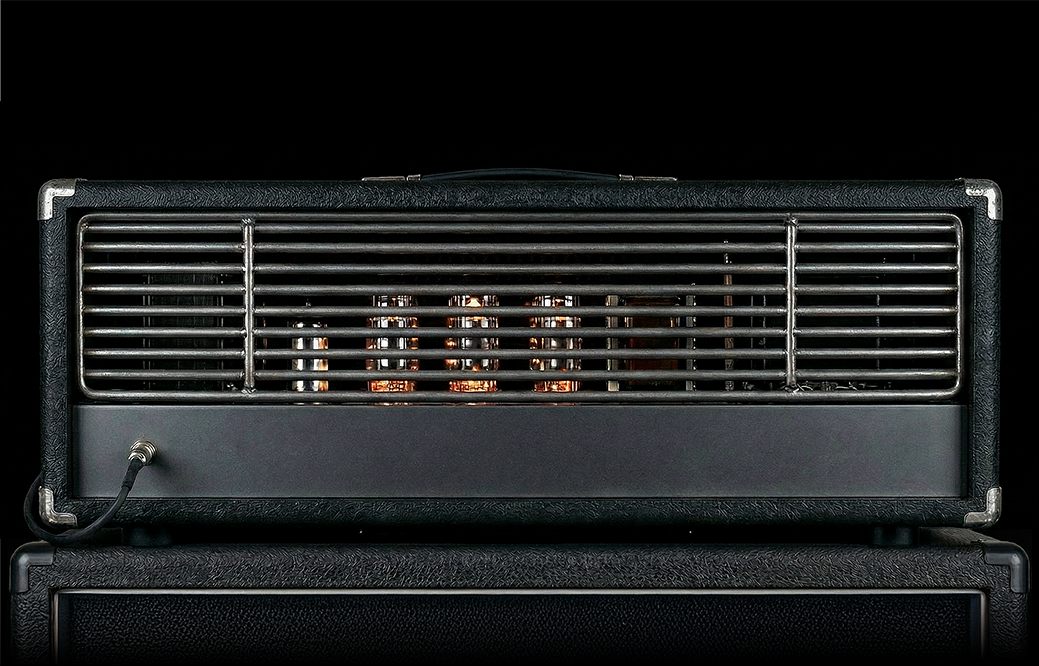
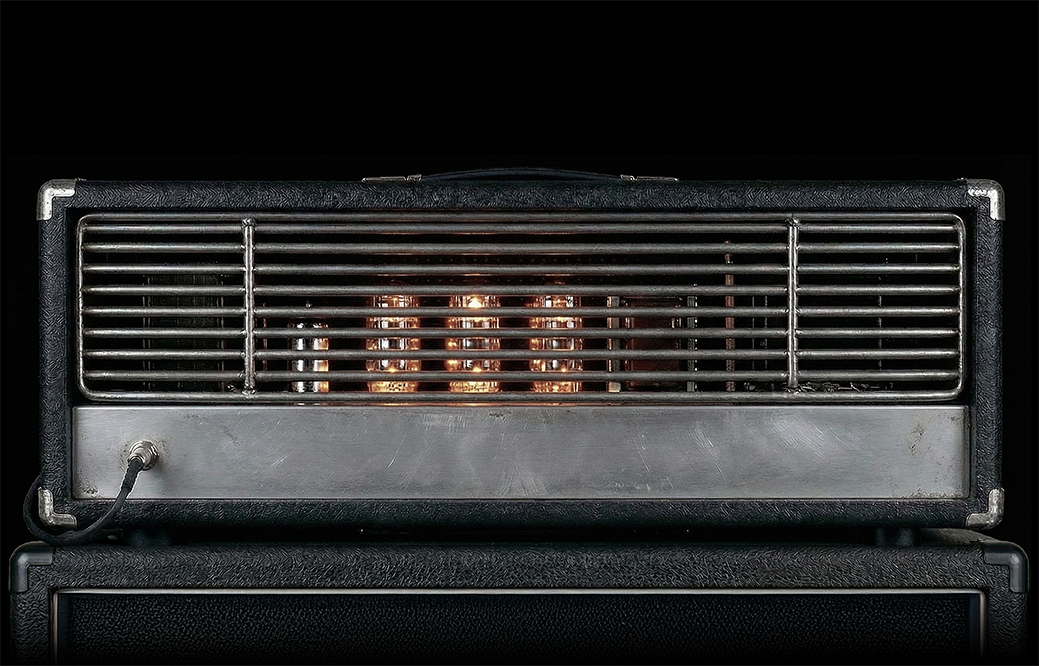
feat(ui): refine amp-face layout and artwork

Changed region(s): [[0.0, 0.2402, 0.9856, 0.961]]

diff --git a/NeuralAmpModeler/NeuralAmpModeler.cpp b/NeuralAmpModeler/NeuralAmpModeler.cpp
@@ -79,6 +79,46 @@ constexpr std::array<const char*, 1> kReleaseStompAssetTokens = {"Boost1"};
 constexpr std::array<const char*, 1> kReleaseStompAssetFileNames = {"Boost1.nam"};
 constexpr std::array<const char*, 1> kReleaseIRAssetTokens = {"Cab1"};
 constexpr std::array<const char*, 1> kReleaseIRAssetFileNames = {"Cab1.wav"};
+constexpr float kAmpFaceKnobAreaWidth = 80.0f;
+constexpr float kAmpFaceSwitchScale = 0.20f;
+
+struct AmpFaceLayout
+{
+  float knobTopOffset;
+  float knobCenterOffsetX;
+  float knobSpacing;
+  float knobScale;
+  float labelYOffset;
+  float switchCenterOffsetX;
+  float switchCenterOffsetY;
+};
+
+constexpr std::array<float, 7> kAmpFaceKnobColumnOffsets = {-2.0f, -1.0f, 0.0f, 1.0f, 2.0f, 3.0f, 4.0f};
+constexpr std::array<AmpFaceLayout, 3> kAmpFaceLayouts = {{
+  {158.0f, -95.0f, 100.0f, 0.70f, AP_KNOP_OFFSET, 385.0f, 213.0f},
+  {152.0f, -95.0f, 100.0f, 0.68f, AP_KNOP_OFFSET-3, 400.0f, 205.0f},
+  {158.0f, -95.0f, 100.0f, 0.70f, AP_KNOP_OFFSET, 390.0f, 213.0f},
+}};
+
+AmpFaceLayout GetAmpFaceLayout(const int slotIndex)
+{
+  return kAmpFaceLayouts[static_cast<size_t>(std::clamp(slotIndex, 0, static_cast<int>(kAmpFaceLayouts.size()) - 1))];
+}
+
+IRECT MakeAmpFaceKnobArea(const IRECT& ampFaceArea, const AmpFaceLayout& layout, const float columnOffset)
+{
+  const float centerX = ampFaceArea.MW() + layout.knobCenterOffsetX + columnOffset * layout.knobSpacing;
+  const float topY = ampFaceArea.T + layout.knobTopOffset;
+  return IRECT(centerX - 0.5f * kAmpFaceKnobAreaWidth, topY, centerX + 0.5f * kAmpFaceKnobAreaWidth, topY + NAM_KNOB_HEIGHT);
+}
+
+IRECT MakeAmpFaceSwitchArea(const IRECT& ampFaceArea, const AmpFaceLayout& layout, const float switchWidth, const float switchHeight)
+{
+  const float centerX = ampFaceArea.MW() + layout.switchCenterOffsetX;
+  const float centerY = ampFaceArea.T + layout.switchCenterOffsetY;
+  return IRECT(centerX - 0.5f * switchWidth, centerY - 0.5f * switchHeight, centerX + 0.5f * switchWidth,
+               centerY + 0.5f * switchHeight);
+}
 constexpr double kDelayManualTempoDefaultBPM = 120.0;
 constexpr double kDelayManualTempoMinBPM = 10.0;
 constexpr double kDelayManualTempoMaxBPM = 350.0;
@@ -774,7 +814,7 @@ NeuralAmpModeler::NeuralAmpModeler(const InstanceInfo& info)
 
     // Areas for knobs
     // Keep these as explicit anchors so each group can be tuned independently.
-    const float knobWidth = 80.0f;
+    const float knobWidth = kAmpFaceKnobAreaWidth;
     auto makeKnobArea = [&](const float centerX, const float topY) {
       return IRECT(centerX - knobWidth * 0.5f, topY, centerX + knobWidth * 0.5f, topY + NAM_KNOB_HEIGHT);
     };
@@ -805,27 +845,18 @@ NeuralAmpModeler::NeuralAmpModeler(const InstanceInfo& info)
     const auto topGateAttenuationLedArea =
       IRECT(topGateKnobArea.MW() - 6.0f, topGateKnobArea.MH() + 24.0f, topGateKnobArea.MW() + 6.0f, topGateKnobArea.MH() + 36.0f);
 
-    // Amp-face controls (independent group)
-    const float frontKnobTop = ampFaceArea.T + 158.0f;
-    const float frontRowCenterX = ampFaceArea.MW() - 95.0f;
-    const float frontKnobSpacing = 100.0f;
-    const auto noiseGateArea = makeKnobArea(frontRowCenterX - 3.0f * frontKnobSpacing, frontKnobTop);
-    const auto preModelGainArea = makeKnobArea(frontRowCenterX - 2.0f * frontKnobSpacing, frontKnobTop);
-    const auto bassKnobArea = makeKnobArea(frontRowCenterX - 1.0f * frontKnobSpacing, frontKnobTop);
-    const auto midKnobArea = makeKnobArea(frontRowCenterX, frontKnobTop);
-    const auto trebleKnobArea = makeKnobArea(frontRowCenterX + 1.0f * frontKnobSpacing, frontKnobTop);
-    const auto presenceKnobArea = makeKnobArea(frontRowCenterX + 2.0f * frontKnobSpacing, frontKnobTop);
-    const auto depthKnobArea = makeKnobArea(frontRowCenterX + 3.0f * frontKnobSpacing, frontKnobTop);
-    const auto masterKnobArea = makeKnobArea(frontRowCenterX + 4.0f * frontKnobSpacing, frontKnobTop);
-    const float modelSwitchScale = 0.20f;
-    const float modelSwitchWidth = switchOffBitmap.W() * modelSwitchScale;
-    const float modelSwitchHeight = switchOffBitmap.H() * modelSwitchScale;
-    const float modelSwitchCenterX = std::min(b.W() - 120.0f, masterKnobArea.MW() + 130.0f);
-    const float modelSwitchCenterY = noiseGateArea.MH();
-    const auto modelToggleArea = IRECT(modelSwitchCenterX - 0.5f * modelSwitchWidth,
-                                       modelSwitchCenterY - 0.5f * modelSwitchHeight,
-                                       modelSwitchCenterX + 0.5f * modelSwitchWidth,
-                                       modelSwitchCenterY + 0.5f * modelSwitchHeight);
+    // Amp-face controls: each amp slot owns its row geometry independently.
+    const AmpFaceLayout ampFaceLayout = GetAmpFaceLayout(mAmpSelectorIndex);
+    const auto preModelGainArea = MakeAmpFaceKnobArea(ampFaceArea, ampFaceLayout, kAmpFaceKnobColumnOffsets[0]);
+    const auto bassKnobArea = MakeAmpFaceKnobArea(ampFaceArea, ampFaceLayout, kAmpFaceKnobColumnOffsets[1]);
+    const auto midKnobArea = MakeAmpFaceKnobArea(ampFaceArea, ampFaceLayout, kAmpFaceKnobColumnOffsets[2]);
+    const auto trebleKnobArea = MakeAmpFaceKnobArea(ampFaceArea, ampFaceLayout, kAmpFaceKnobColumnOffsets[3]);
+    const auto presenceKnobArea = MakeAmpFaceKnobArea(ampFaceArea, ampFaceLayout, kAmpFaceKnobColumnOffsets[4]);
+    const auto depthKnobArea = MakeAmpFaceKnobArea(ampFaceArea, ampFaceLayout, kAmpFaceKnobColumnOffsets[5]);
+    const auto masterKnobArea = MakeAmpFaceKnobArea(ampFaceArea, ampFaceLayout, kAmpFaceKnobColumnOffsets[6]);
+    const float modelSwitchWidth = switchOffBitmap.W() * kAmpFaceSwitchScale;
+    const float modelSwitchHeight = switchOffBitmap.H() * kAmpFaceSwitchScale;
+    const auto modelToggleArea = MakeAmpFaceSwitchArea(ampFaceArea, ampFaceLayout, modelSwitchWidth, modelSwitchHeight);
 
     // Stomp section coordinates come from the user's 3x design canvas.
     constexpr float kDesignW = 3117.0f; // 3 * 1039
@@ -930,7 +961,7 @@ NeuralAmpModeler::NeuralAmpModeler(const InstanceInfo& info)
 
 
     // Gate/EQ toggle row (independent group)
-    const float toggleTop = frontKnobTop + 86.0f;
+    const float toggleTop = ampFaceArea.T + ampFaceLayout.knobTopOffset + 86.0f;
     const auto eqToggleArea = IRECT(midKnobArea.MW() - 17.0f, toggleTop, midKnobArea.MW() + 17.0f, toggleTop + 24.0f);
 
     // EQ-page HPF/LPF anchors follow the printed marker positions on the EQ background.
@@ -1536,12 +1567,12 @@ NeuralAmpModeler::NeuralAmpModeler(const InstanceInfo& info)
                                                          ampFaceKnobBitmaps,
                                                          ampFaceKnobBackgroundBitmaps,
                                                          mAmpSelectorIndex,
-                                                         0.7f,
-                                                         AP_KNOP_OFFSET));
+                                                         ampFaceLayout.knobScale,
+                                                         ampFaceLayout.labelYOffset));
     pGraphics->AttachControl(
       new NAMAmpBitmapKnobControl(
         bassKnobArea, kToneBass, "BASS", ampKnobStyle, ampFaceKnobBitmaps, ampFaceKnobBackgroundBitmaps, mAmpSelectorIndex,
-        0.7f, AP_KNOP_OFFSET),
+        ampFaceLayout.knobScale, ampFaceLayout.labelYOffset),
       -1,
       "EQ_KNOBS");
     pGraphics->AttachControl(
@@ -1552,8 +1583,8 @@ NeuralAmpModeler::NeuralAmpModeler(const InstanceInfo& info)
                                   ampFaceKnobBitmaps,
                                   ampFaceKnobBackgroundBitmaps,
                                   mAmpSelectorIndex,
-                                  0.7f,
-                                  AP_KNOP_OFFSET),
+                                  ampFaceLayout.knobScale,
+                                  ampFaceLayout.labelYOffset),
       -1,
       "EQ_KNOBS");
     pGraphics->AttachControl(
@@ -1564,8 +1595,8 @@ NeuralAmpModeler::NeuralAmpModeler(const InstanceInfo& info)
                                   ampFaceKnobBitmaps,
                                   ampFaceKnobBackgroundBitmaps,
                                   mAmpSelectorIndex,
-                                  0.7f,
-                                  AP_KNOP_OFFSET),
+                                  ampFaceLayout.knobScale,
+                                  ampFaceLayout.labelYOffset),
       -1, "EQ_KNOBS");
     pGraphics->AttachControl(
       new NAMAmpBitmapKnobControl(presenceKnobArea,
@@ -1575,14 +1606,14 @@ NeuralAmpModeler::NeuralAmpModeler(const InstanceInfo& info)
                                   ampFaceKnobBitmaps,
                                   ampFaceKnobBackgroundBitmaps,
                                   mAmpSelectorIndex,
-                                  0.7f,
-                                  AP_KNOP_OFFSET),
+                                  ampFaceLayout.knobScale,
+                                  ampFaceLayout.labelYOffset),
       -1,
       "EQ_KNOBS");
     pGraphics->AttachControl(
       new NAMAmpBitmapKnobControl(
         depthKnobArea, kToneDepth, "DEPTH", ampKnobStyle, ampFaceKnobBitmaps, ampFaceKnobBackgroundBitmaps, mAmpSelectorIndex,
-        0.7f, AP_KNOP_OFFSET),
+        ampFaceLayout.knobScale, ampFaceLayout.labelYOffset),
       -1,
       "EQ_KNOBS");
     pGraphics->AttachControl(
@@ -1593,8 +1624,8 @@ NeuralAmpModeler::NeuralAmpModeler(const InstanceInfo& info)
                                   ampFaceKnobBitmaps,
                                   ampFaceKnobBackgroundBitmaps,
                                   mAmpSelectorIndex,
-                                  0.7f,
-                                  AP_KNOP_OFFSET));
+                                  ampFaceLayout.knobScale,
+                                  ampFaceLayout.labelYOffset));
     pGraphics->AttachControl(
       new NAMPedalKnobControl(hpfKnobArea, kUserHPFFrequency, "", utilityStyle, pedalKnobBitmap, pedalKnobShadowBitmap,
                               kPedalKnobScale, 8.0f, -5.0f),
@@ -4896,17 +4927,35 @@ void NeuralAmpModeler::_RefreshTopNavControls()
     if (auto* pBackground = dynamic_cast<NAMBackgroundBitmapControl*>(pGraphics->GetControlWithTag(kCtrlTagMainBackground)))
       pBackground->SetResourceName(backgroundResource);
 
-    auto updateAmpFaceKnobStyle = [this, pGraphics](const int paramIdx) {
+    constexpr float kOuterPad = 20.0f;
+    constexpr float kInnerPad = 10.0f;
+    const auto bounds = pGraphics->GetBounds();
+    const auto mainArea = bounds.GetPadded(-kOuterPad);
+    const auto contentArea = mainArea.GetPadded(-kInnerPad);
+    const auto ampFaceArea = IRECT(contentArea.L + 66.0f, contentArea.T + 215.0f, contentArea.R - 66.0f, contentArea.T + 496.0f);
+    const AmpFaceLayout ampFaceLayout = GetAmpFaceLayout(mAmpSelectorIndex);
+
+    auto updateAmpFaceKnob = [this, pGraphics, &ampFaceArea, &ampFaceLayout](const int paramIdx, const float columnOffset) {
       if (auto* pControl = dynamic_cast<NAMAmpBitmapKnobControl*>(pGraphics->GetControlWithParamIdx(paramIdx)))
+      {
         pControl->SetAmpStyle(mAmpSelectorIndex);
+        pControl->SetLayout(ampFaceLayout.knobScale, ampFaceLayout.labelYOffset);
+        pGraphics->SetControlBounds(pControl, MakeAmpFaceKnobArea(ampFaceArea, ampFaceLayout, columnOffset));
+      }
     };
-    updateAmpFaceKnobStyle(kPreModelGain);
-    updateAmpFaceKnobStyle(kToneBass);
-    updateAmpFaceKnobStyle(kToneMid);
-    updateAmpFaceKnobStyle(kToneTreble);
-    updateAmpFaceKnobStyle(kTonePresence);
-    updateAmpFaceKnobStyle(kToneDepth);
-    updateAmpFaceKnobStyle(kMasterVolume);
+    updateAmpFaceKnob(kPreModelGain, kAmpFaceKnobColumnOffsets[0]);
+    updateAmpFaceKnob(kToneBass, kAmpFaceKnobColumnOffsets[1]);
+    updateAmpFaceKnob(kToneMid, kAmpFaceKnobColumnOffsets[2]);
+    updateAmpFaceKnob(kToneTreble, kAmpFaceKnobColumnOffsets[3]);
+    updateAmpFaceKnob(kTonePresence, kAmpFaceKnobColumnOffsets[4]);
+    updateAmpFaceKnob(kToneDepth, kAmpFaceKnobColumnOffsets[5]);
+    updateAmpFaceKnob(kMasterVolume, kAmpFaceKnobColumnOffsets[6]);
+
+    if (auto* pModelToggle = pGraphics->GetControlWithParamIdx(kModelToggle))
+      pGraphics->SetControlBounds(
+        pModelToggle,
+        MakeAmpFaceSwitchArea(
+          ampFaceArea, ampFaceLayout, static_cast<float>(pModelToggle->GetRECT().W()), static_cast<float>(pModelToggle->GetRECT().H())));
 
     const bool showTunerReadout = tunerActive;
     if (auto* pTunerReadout = pGraphics->GetControlWithTag(kCtrlTagTunerReadout))

diff --git a/NeuralAmpModeler/NeuralAmpModelerControls.h b/NeuralAmpModeler/NeuralAmpModelerControls.h
@@ -668,6 +668,15 @@ public:
     SetDirty(false);
   }
 
+  void SetLayout(float knobScale, float labelYOffset, float valueYOffset = 0.0f)
+  {
+    mKnobScale = knobScale;
+    mLabelYOffset = labelYOffset;
+    mValueYOffset = valueYOffset;
+    OnResize();
+    SetDirty(false);
+  }
+
   void OnRescale() override
   {
     for (auto& bitmap : mKnobBitmaps)
